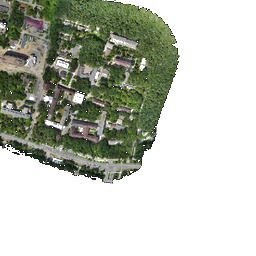
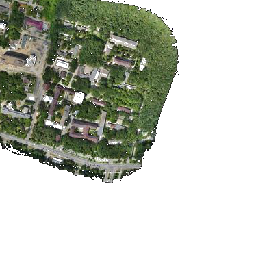
feat: Add filter for invisible COGs in low zoom levels to improve que… (#91)
* feat: Add filter for invisible COGs in low zoom levels to improve query performance and reduce clutter

* feat: Enhance testing and logging for mosaic functionality

- Mock TiTiler fetcher in tests to avoid external dependencies and improve reliability.
- Update UUIDs in tests to use temporary S3 URLs.
- Add numeric parsing for minzoom and maxzoom in metadata retrieval.
- Improve logging in mosaic and fetcher modules for better debugging and error tracking.
- Refactor cache invalidation logic to simplify cache deletion process.

* chore: Update mosaic test images to reflect recent changes

- Replace existing binary test images with updated versions for various mosaic resolutions.

Changed region(s): [[0.0, 0.0, 0.6875, 0.7188]]

diff --git a/docs/filter_invisible_cogs.md b/docs/filter_invisible_cogs.md
@@ -1,0 +1,200 @@
+# Filtering Invisible COGs in Low Zoom Levels
+
+## Overview
+
+This change introduces a filter in our PostGIS queries to **exclude COGs (Cloud Optimized GeoTIFFs)** that are too small to be visible in the requested tile at lower zoom levels.  
+Additionally, the number of results returned per query is limited to **100** to improve performance and avoid overwhelming the client.
+
+## What Was Changed
+
+1. **Maximum Results Limit**
+
+   - Added `LIMIT 100` to all tile queries.
+   - Ensures the client never receives more than 100 results for a single tile request.
+
+2. **Visibility Filter for Small COGs**
+
+   - When **zoom < 14**, we exclude any COG whose projected bounding box **inside the tile** is smaller than **2×2 pixels** (4 px²).
+   - For **zoom ≥ 14**, we exclude COGs smaller than **1×1 pixel** (1 px²).
+   - This is calculated in the query using:
+     ```sql
+     ST_Area(
+       ST_Intersection(ST_Envelope(ST_Transform(geom, 3857)), ST_TileEnvelope(z, x, y))
+     ) >= (CASE WHEN z < 14 THEN 4 ELSE 1 END) * POWER(
+           156543.03392804097 / POWER(2, z), 2
+         )
+     ```
+
+3. **Rationale**
+   - At lower zoom levels, many COGs are so small that they are visually imperceptible.
+   - Removing them:
+     - Reduces query execution time.
+     - Lowers network payload.
+     - Keeps map rendering uncluttered.
+
+## Example Query
+
+Example: tile request for `z=10, x=609, y=509`:
+
+```sql
+SELECT uuid, ST_AsGeoJSON(ST_Envelope(geom)) geojson
+FROM oam_meta
+WHERE ST_Intersects(
+        ST_Envelope(ST_Transform(geom, 3857)),
+        ST_TileEnvelope(10, 609, 509)
+      )
+  AND ST_Area(
+        ST_Intersection(
+          ST_Envelope(ST_Transform(geom, 3857)),
+          ST_TileEnvelope(10, 609, 509)
+        )
+      ) >= (CASE WHEN 10 < 14 THEN 4 ELSE 1 END) * POWER(
+            156543.03392804097 / POWER(2, 10), 2
+          )
+ORDER BY resolution_in_meters DESC NULLS LAST, acquisition_end DESC NULLS LAST, feature_id ASC
+LIMIT 100;
+```
+
+## Results Comparison
+
+We ran a comparison across all tiles for zoom levels 0–6, summing results per zoom.
+
+| Zoom      | Total w/o Filter | Total w/ Filter | Diff   | % Reduction | Avg/Tile w/o Filter | Avg/Tile w/ Filter |
+| --------- | ---------------- | --------------- | ------ | ----------- | ------------------- | ------------------ |
+| 0         | 18327            | 34              | 18293  | 99.81%      | 18327.0000          | 34.0000            |
+| 1         | 18370            | 56              | 18314  | 99.70%      | 4592.5000           | 14.0000            |
+| 2         | 18380            | 81              | 18299  | 99.56%      | 1148.7500           | 5.0625             |
+| 3         | 18445            | 318             | 18127  | 98.28%      | 288.2031            | 4.9688             |
+| 4         | 18481            | 951             | 17530  | 94.85%      | 72.1914             | 3.7148             |
+| 5         | 18683            | 2926            | 15757  | 84.34%      | 18.2451             | 2.8574             |
+| 6         | 19370            | 4271            | 15099  | 77.95%      | 4.7290              | 1.0427             |
+| **Total** | **130056**       | **8637**        | 121419 | **93.36%**  | 23.8154             | 1.5816             |
+
+## Summary
+
+- The filter drastically reduces the number of results for low zoom levels, with reductions of over **99%** for zooms 0–3.
+- Even at zoom 6, the number of results drops by **82%**.
+- This improves performance and focuses rendering on visible, relevant imagery.
+
+## The query to calculate statictic above
+
+```sql
+-- Comparison of the number of features "with filter" vs "without filter"
+-- for all tiles from z=0 to max_zoom in the 'openaerialmap' layer
+
+WITH
+-- ====== configuration ======
+cfg AS (
+  SELECT
+    14::int AS threshold_zoom,  -- below this zoom apply the "large" threshold
+    4::int  AS px2_smallzoom,   -- area in pixels² for z < threshold_zoom
+    1::int  AS px2_bigzoom,     -- area in pixels² for z >= threshold_zoom
+    6::int  AS max_zoom         -- maximum zoom to iterate over
+),
+-- ====== select layer ======
+layer_sel AS (
+  SELECT id AS layer_id
+  FROM public.layers
+  WHERE public_id = 'openaerialmap'
+),
+-- ====== generate tiles ======
+zlist AS (
+  SELECT generate_series(0, (SELECT max_zoom FROM cfg)) AS z
+),
+tiles AS (
+  SELECT
+    z.z,
+    x.i AS x,
+    y.j AS y,
+    ST_TileEnvelope(z.z, x.i, y.j) AS tile3857
+  FROM zlist z
+  JOIN LATERAL generate_series(0, (1<<z.z)-1) AS x(i) ON TRUE
+  JOIN LATERAL generate_series(0, (1<<z.z)-1) AS y(j) ON TRUE
+),
+-- ====== candidate features ======
+per_tile_features AS (
+  SELECT
+    t.z, t.x, t.y, t.tile3857,
+    ST_Envelope(ST_Transform(f.geom, 3857)) AS env_3857
+  FROM tiles t
+  CROSS JOIN layer_sel ls
+  JOIN LATERAL (
+    SELECT geom
+    FROM public.layers_features f
+    WHERE f.layer_id = ls.layer_id
+      AND f.geom && ST_Transform(t.tile3857, 4326)
+  ) f ON TRUE
+),
+-- ====== count per tile ======
+per_tile_counts AS (
+  SELECT
+    p.z, p.x, p.y,
+    COUNT(*) FILTER (
+      WHERE ST_Intersects(p.env_3857, p.tile3857)
+    ) AS cnt_no_filter,
+    COUNT(*) FILTER (
+      WHERE ST_Intersects(p.env_3857, p.tile3857)
+        AND ST_Area(
+              ST_Intersection(p.env_3857, p.tile3857)
+            ) >= (
+                  CASE
+                    WHEN p.z < (SELECT threshold_zoom FROM cfg)
+                      THEN (SELECT px2_smallzoom FROM cfg)
+                    ELSE (SELECT px2_bigzoom   FROM cfg)
+                  END
+                ) * POWER(156543.03392804097 / POWER(2, p.z), 2)
+    ) AS cnt_with_filter
+  FROM per_tile_features p
+  GROUP BY p.z, p.x, p.y
+),
+-- ====== aggregate per zoom ======
+by_zoom AS (
+  SELECT
+    z,
+    SUM(cnt_no_filter)  AS total_no_filter,
+    SUM(cnt_with_filter) AS total_with_filter,
+    (2^z * 2^z)::bigint AS tile_count -- total tiles at this zoom
+  FROM per_tile_counts
+  GROUP BY z
+),
+-- ====== grand total ======
+grand_total AS (
+  SELECT
+    NULL::int AS z,
+    SUM(total_no_filter)  AS total_no_filter,
+    SUM(total_with_filter) AS total_with_filter,
+    SUM(tile_count)        AS tile_count
+  FROM by_zoom
+)
+-- ====== output ======
+SELECT
+  z,
+  total_no_filter,
+  total_with_filter,
+  (total_no_filter - total_with_filter) AS diff,
+  CASE
+    WHEN total_no_filter > 0
+      THEN ROUND(100.0 * (total_no_filter - total_with_filter) / total_no_filter, 2)
+    ELSE 0
+  END AS pct_reduction,
+  ROUND(total_no_filter::numeric / tile_count, 4) AS avg_per_tile_no_filter,
+  ROUND(total_with_filter::numeric / tile_count, 4) AS avg_per_tile_with_filter
+FROM by_zoom
+
+UNION ALL
+
+SELECT
+  z,
+  total_no_filter,
+  total_with_filter,
+  (total_no_filter - total_with_filter) AS diff,
+  CASE
+    WHEN total_no_filter > 0
+      THEN ROUND(100.0 * (total_no_filter - total_with_filter) / total_no_filter, 2)
+    ELSE 0
+  END AS pct_reduction,
+  ROUND(total_no_filter::numeric / tile_count, 4) AS avg_per_tile_no_filter,
+  ROUND(total_with_filter::numeric / tile_count, 4) AS avg_per_tile_with_filter
+FROM grand_total
+ORDER BY z NULLS LAST;
+```

diff --git a/README.md b/README.md
@@ -118,26 +118,26 @@ const levels = {
    - Don't forget to set quote character to '`' and delimiter to ','.
    - Click on the Import button.
 
-9. Open the browser and navigate to http://localhost:8001/mosaic-viewer to view the mosaic map.
+9. Open the browser and navigate to http://localhost:8001/mosaic_viewer to view the mosaic map.
 
 ## Environment variables
 
-| Name                    | Description                             | Default Value   |
-| ----------------------- | --------------------------------------- | --------------- |
-| `PGHOST`                | PostgreSQL host                         |                 |
-| `PGUSER`                | PostgreSQL user                         |                 |
-| `PGPASSWORD`            | PostgreSQL password                     |                 |
-| `PGDATABASE`            | PostgreSQL database name                | `postgres`      |
-| `OAM_LAYER_ID`          | OpenAerialMap layer ID                  | `openaerialmap` |
-| `PORT`                  | Server port                             |                 |
-| `BASE_URL`              | Root URL of the server                  |                 |
-| `TITILER_BASE_URL`      | URL of your Titiler installation        |                 |
-| `TILES_CACHE_DIR_PATH`  | Path for the tiles cache                | `/tiles`        |
-| `LOG_LEVEL`             | Logging level                           |                 |
-| `DB_POOL_SIZE`          | Size of the PostgreSQL connection pool  | `16`            |
-| `DB_DISABLE_SSL`        | Disable SSL for PostgreSQL connection   | `false`         |
+| Name                    | Description                                                                                               | Default Value   |
+| ----------------------- | --------------------------------------------------------------------------------------------------------- | --------------- |
+| `PGHOST`                | PostgreSQL host                                                                                           |                 |
+| `PGUSER`                | PostgreSQL user                                                                                           |                 |
+| `PGPASSWORD`            | PostgreSQL password                                                                                       |                 |
+| `PGDATABASE`            | PostgreSQL database name                                                                                  | `postgres`      |
+| `OAM_LAYER_ID`          | OpenAerialMap layer ID                                                                                    | `openaerialmap` |
+| `PORT`                  | Server port                                                                                               |                 |
+| `BASE_URL`              | Root URL of the server                                                                                    |                 |
+| `TITILER_BASE_URL`      | URL of your Titiler installation                                                                          |                 |
+| `TILES_CACHE_DIR_PATH`  | Path for the tiles cache                                                                                  | `/tiles`        |
+| `LOG_LEVEL`             | Logging level                                                                                             |                 |
+| `DB_POOL_SIZE`          | Size of the PostgreSQL connection pool                                                                    | `16`            |
+| `DB_DISABLE_SSL`        | Disable SSL for PostgreSQL connection                                                                     | `false`         |
 | `TILE_FETCH_TIMEOUT_MS` | Maximum time to wait for tile fetch (ms). Requests exceeding this timeout will fail with a timeout error. | `60000`         |
-| `FETCH_QUEUE_TTL_MS`    | Time to keep fetch promises in memory (ms). Older promises are removed to prevent memory leaks. | `600000`        |
+| `FETCH_QUEUE_TTL_MS`    | Time to keep fetch promises in memory (ms). Older promises are removed to prevent memory leaks.           | `600000`        |
 
 ## Tests
 
